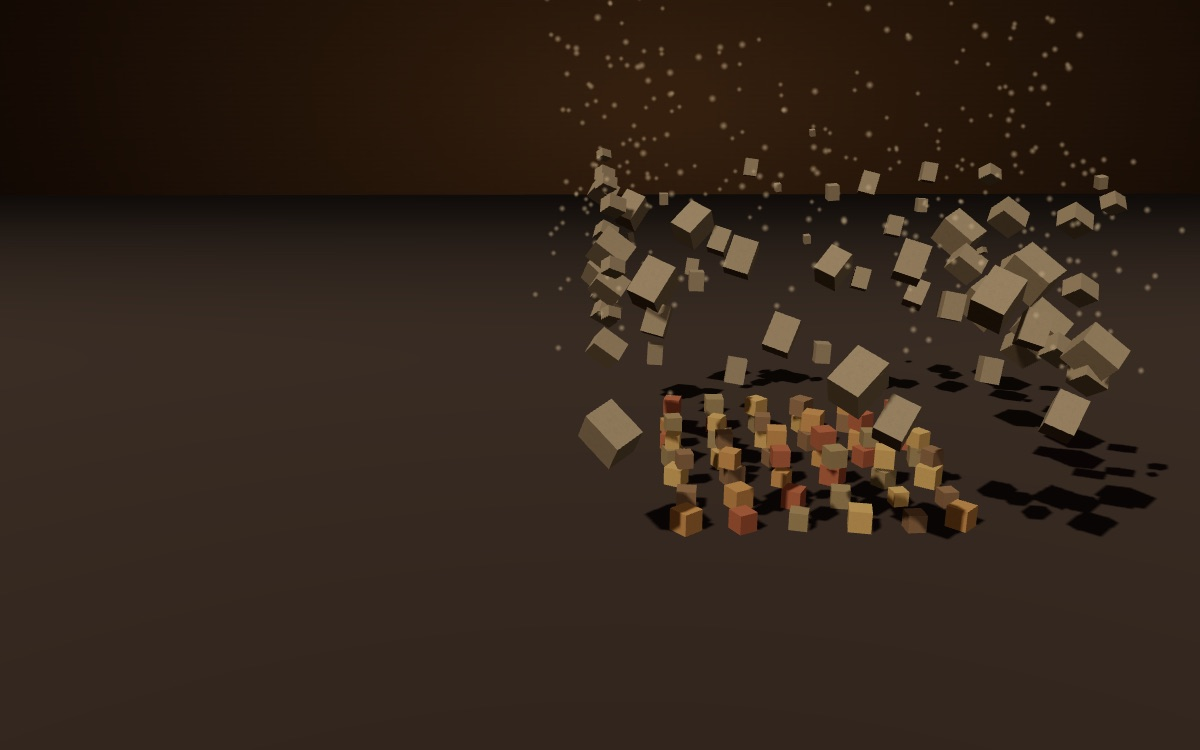
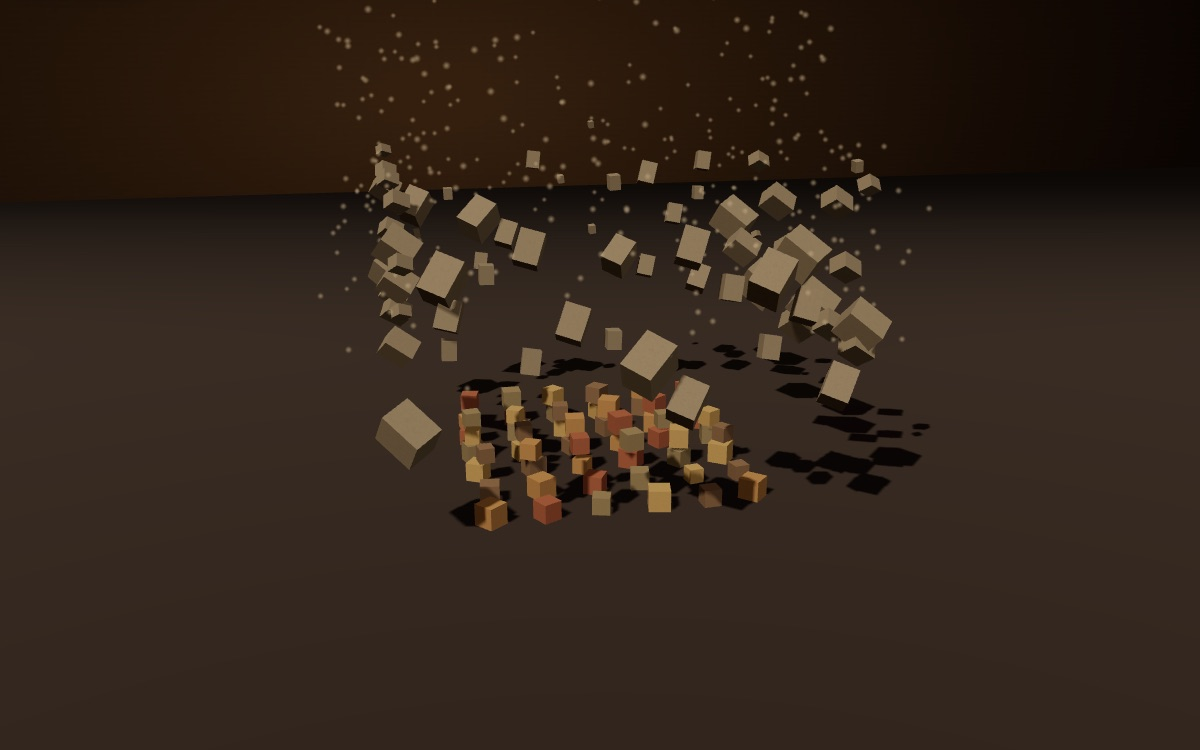
Glossaire : bourgeoisie réécrite selon la charte, direction artistique « la ville éventrée »

diff --git a/glossaire/mondes/bourgeoisie/essai.html b/glossaire/mondes/bourgeoisie/essai.html
@@ -1,51 +1,76 @@
-<!-- L'ESSAI — le corps de /glossaire/bourgeoisie. data-s="1" partout : le
-     Manifeste tient en une seule page Wikisource. Toutes les citations sont
-     relevées dans le texte de Laura Lafargue que la liseuse sert ; aucune ne
-     reprend une phrase déjà citée par /glossaire/lutte-des-classes. La note
-     d'Engels de 1888 n'est pas servie : paraphrasée et située. -->
+<!-- L'ESSAI : le corps de /glossaire/bourgeoisie. Réécrit en octobre 2026
+     selon glossaire/mondes/CHARTE.md (sur le modèle de la page pilote du
+     fétichisme). data-s="1" partout : le Manifeste tient en une seule page
+     Wikisource. Toutes les citations sont relevées dans le texte de Laura
+     Lafargue que la liseuse sert (node tools/verif-citations.mjs
+     BOURGEOISIE) ; aucune ne reprend une phrase déjà citée par
+     /glossaire/lutte-des-classes. La note d'Engels de 1888 n'est pas
+     servie : paraphrasée et située. Les data-etape et les id des sections
+     ne changent pas : la scène lit les premiers, les liens les seconds. -->
 
 <section class="nt-sec" data-etape="eloge" id="difficulte">
-<h2>Un éloge écrit par l'adversaire</h2>
-<p>La difficulté de la notion ne tient pas à sa définition, qui est simple, mais au ton sur lequel le <i>Manifeste</i> la présente, et il faut partir de cette étrangeté pour comprendre ce que le texte veut établir. Un programme communiste, rédigé pour une ligue d'ouvriers, consacre la plus grande partie de sa première section à célébrer la classe qu'il combat&nbsp;; et il ne la célèbre pas à contrecœur. Elle a, lit-on, <q data-s="1" data-q="créé bien d’autres merveilles que les pyramides d’Égypte, les aqueducs romains, les cathédrales gothiques">créé bien d'autres merveilles que les pyramides d'Égypte, les aqueducs romains, les cathédrales gothiques</q>, et elle a été la première à prouver <q data-s="1" data-q="ce que peut accomplir l’activité humaine">ce que peut accomplir l'activité humaine</q>.</p>
-<p>L'éloge, pourtant, porte en lui son revers, et c'est dans la même phrase que le texte les donne. Ce que la bourgeoisie a détruit, ce sont les liens <q data-s="1" data-q="féodales, patriarcales et idylliques">féodales, patriarcales et idylliques</q>, et ce qu'elle a mis à leur place n'est pas une liberté mais une nudité&nbsp;:</p>
+<h2>Pourquoi le <i>Manifeste</i> fait-il l'éloge de la classe qu'il combat&nbsp;?</h2>
+<p class="nt-lead">Parce que l'éloge et l'accusation sont un seul jugement. La bourgeoisie a libéré une puissance de production sans précédent, et c'est la même puissance qui défait tous les liens anciens pour ne laisser que le rapport d'argent.</p>
+<p>La définition de la bourgeoisie est simple&nbsp;; c'est le ton sur lequel le <i>Manifeste</i> la présente qui surprend. Un programme communiste, rédigé en 1848 pour une ligue d'ouvriers, consacre la plus grande partie de sa première section à célébrer la classe qu'il combat. Il ne le fait pas à contrecœur. Elle a, lit-on, <q data-s="1" data-q="créé bien d’autres merveilles que les pyramides d’Égypte, les aqueducs romains, les cathédrales gothiques">créé bien d’autres merveilles que les pyramides d’Égypte, les aqueducs romains, les cathédrales gothiques</q>, et elle a été la première à prouver <q data-s="1" data-q="ce que peut accomplir l’activité humaine">ce que peut accomplir l’activité humaine</q>.</p>
+<p>L'éloge porte pourtant son revers, et le texte les donne ensemble. La bourgeoisie a détruit les relations <q data-s="1" data-q="féodales, patriarcales et idylliques">féodales, patriarcales et idylliques</q>. Ce qu'elle a mis à leur place est une nudité&nbsp;:</p>
 <blockquote data-s="1" data-q="Elle a noyé l’extase religieuse, l’enthousiasme chevaleresque, la sentimentalité du petit bourgeois, dans les eaux glacées du calcul égoïste"><p>Elle a noyé l’extase religieuse, l’enthousiasme chevaleresque, la sentimentalité du petit bourgeois, dans les eaux glacées du calcul égoïste. Elle a fait de la dignité personnelle une simple valeur d’échange […]</p></blockquote>
-<p>Il n'y a là ni ironie ni contradiction. Le texte ne regrette pas le monde féodal, dont il dit qu'il voilait l'exploitation par des illusions religieuses et politiques&nbsp;; il constate que la bourgeoisie a remplacé cette exploitation voilée par <q data-s="1" data-q="une exploitation ouverte, directe, brutale et éhontée">une exploitation ouverte, directe, brutale et éhontée</q>. C'est un progrès en cela même qu'il rend visible ce qui était caché. L'éloge et l'accusation sont un seul jugement, et c'est pourquoi nous les tiendrons ensemble&nbsp;: la bourgeoisie est révolutionnaire parce qu'elle réduit tout rapport à un rapport d'argent.</p>
+<p>Le texte ne regrette pas pour autant le monde féodal. Il dit que ce monde voilait l'exploitation sous des illusions religieuses et politiques, et que la bourgeoisie lui a substitué <q data-s="1" data-q="une exploitation ouverte, directe, brutale et éhontée">une exploitation ouverte, directe, brutale et éhontée</q>. Le progrès tient à ceci que ce qui était caché devient visible. On tiendra donc ensemble les deux faces du jugement&nbsp;: la bourgeoisie est révolutionnaire parce qu'elle réduit tout rapport à un rapport d'argent, et cette réduction est aussi ce qu'on lui reproche.</p>
 </section>
 
 <section class="nt-sec" data-etape="genese" id="ou">
-<h2>Où le texte la pose&nbsp;: une classe qui a une histoire</h2>
-<p>Le <i>Manifeste</i> ne définit pas la bourgeoisie, il la raconte, et le choix d'exposition est déjà un argument. La définition qu'on cite d'ordinaire n'est pas dans le texte de 1848&nbsp;: elle vient d'une note d'Engels à l'édition anglaise de 1888, où il précise qu'il faut entendre par bourgeoisie la classe des capitalistes modernes, propriétaires des moyens de production sociale et employeurs de travail salarié. En 1848, le texte procède autrement&nbsp;: il montre d'où la classe vient avant de dire ce qu'elle est.</p>
-<p>Elle ne tombe pas du ciel, et elle ne s'oppose pas d'emblée à l'ordre féodal. <q data-s="1" data-q="Des serfs du moyen âge naquirent les éléments des premières communes">Des serfs du moyen âge naquirent les éléments des premières communes</q>, et de cette population des villes sortirent les éléments de la bourgeoisie&nbsp;; puis la découverte de l'Amérique, le commerce colonial, la manufacture, la vapeur et la grande industrie firent le reste. La conclusion est posée en une ligne&nbsp;: <q data-s="1" data-q="La Bourgeoisie, nous le voyons, est elle-même le produit d’un long développement, d’une série de révolutions dans les modes de production et de communication">la Bourgeoisie, nous le voyons, est elle-même le produit d'un long développement, d'une série de révolutions dans les modes de production et de communication</q>.</p>
-<p>Le mot garde la trace de cette histoire, et il faut la rappeler pour éviter une confusion. Le bourgeois du moyen âge est l'habitant du bourg, le marchand ou le maître de métier des villes franches&nbsp;; la bourgeoisie du <i>Manifeste</i> est la classe qui en est sortie, mais qui n'est plus définie par la ville ni par le statut&nbsp;: elle l'est par la propriété des moyens de production modernes. Le mot est resté, la chose a changé, et le texte joue sur cette continuité pour faire voir que ce qui a une origine peut avoir une fin.</p>
+<h2>D'où vient la bourgeoisie&nbsp;?</h2>
+<p class="nt-lead">De la société féodale elle-même. Le <i>Manifeste</i> ne la définit pas, il raconte sa formation, sur plusieurs siècles, à travers une série de révolutions dans la production et les échanges.</p>
+<p>La définition qu'on cite d'ordinaire n'est pas dans le texte de 1848. Elle vient d'une note qu'Engels ajoute à l'édition anglaise de 1888&nbsp;: il faut entendre par bourgeoisie la classe des capitalistes modernes, propriétaires des moyens de production sociale, c'est-à-dire des ateliers, des machines et des matières qui servent à produire, et employeurs de travail salarié. En 1848, le texte procède autrement. Il montre d'où la classe vient avant de dire ce qu'elle est, et ce choix d'exposition est déjà un argument&nbsp;: ce qui a une origine peut avoir une fin.</p>
+<p>La bourgeoisie ne surgit pas du dehors, et elle ne s'oppose pas d'emblée à l'ordre féodal. <q data-s="1" data-q="Des serfs du moyen âge naquirent les éléments des premières communes">Des serfs du moyen âge naquirent les éléments des premières communes</q>, et de cette population des villes sortit la bourgeoisie. La découverte de l'Amérique, le commerce colonial, la manufacture, puis la vapeur et la grande industrie firent le reste. Le texte conclut en une ligne que <q data-s="1" data-q="La Bourgeoisie, nous le voyons, est elle-même le produit d’un long développement, d’une série de révolutions dans les modes de production et de communication">la Bourgeoisie, nous le voyons, est elle-même le produit d’un long développement, d’une série de révolutions dans les modes de production et de communication</q>.</p>
+<p>Le mot garde la trace de cette histoire. Le bourgeois du Moyen Âge est l'habitant du bourg, le marchand ou le maître de métier des villes franches. La bourgeoisie du <i>Manifeste</i> est la classe qui en est sortie, et ce qui la définit désormais est la propriété des moyens de production modernes, où qu'elle habite et quel que soit son titre. Le mot est resté, la chose a changé.</p>
 </section>
 
 <section class="nt-sec" data-etape="revolutionner" id="distinction">
-<h2>La distinction&nbsp;: conserver ou bouleverser</h2>
-<p>Ce qui fait de la bourgeoisie une classe à part n'est pas qu'elle domine&nbsp;: toutes les classes dominantes l'ont fait. C'est la condition à laquelle elle domine, et le texte l'énonce avec une netteté que le reste de l'œuvre de Marx ne fera que développer&nbsp;:</p>
+<h2>Qu'est-ce qui distingue la bourgeoisie des classes dominantes d'avant&nbsp;?</h2>
+<p class="nt-lead">Toutes ont dominé en conservant le mode de production. La bourgeoisie, elle, ne peut exister qu'à la condition de le transformer sans arrêt.</p>
+<p>Dominer n'a rien de neuf&nbsp;: le seigneur et le maître de jurande dominaient aussi. Ce qui est neuf, c'est la condition à laquelle la bourgeoisie domine, et le texte l'énonce avec une netteté que le reste de l'œuvre de Marx développera&nbsp;:</p>
 <blockquote data-s="1" data-q="La Bourgeoisie n’existe qu’à la condition de révolutionner sans cesse les instruments de travail, ce qui veut dire le mode de production, ce qui veut dire tous les rapports sociaux"><p>La Bourgeoisie n’existe qu’à la condition de révolutionner sans cesse les instruments de travail, ce qui veut dire le mode de production, ce qui veut dire tous les rapports sociaux. La conservation de l’ancien mode de production était, au contraire, la première condition d’existence de toutes les classes industrielles antérieures.</p></blockquote>
-<p>La distinction est décisive. Un seigneur ou un maître de jurande tenait sa position de ce qui ne changeait pas&nbsp;; un capitaliste tient la sienne de ce qu'il transforme, et il la perd s'il cesse de transformer, parce que la concurrence le déclasse. De là cette instabilité que le texte donne comme la marque de l'époque&nbsp;: <q data-s="1" data-q="cette agitation et cette insécurité perpétuelles, distinguent l’époque bourgeoise de toutes les précédentes">cette agitation et cette insécurité perpétuelles, distinguent l'époque bourgeoise de toutes les précédentes</q>. Les idées ne résistent pas mieux que les techniques&nbsp;: celles qui remplacent les anciennes <q data-s="1" data-q="deviennent surannées avant de se cristalliser">deviennent surannées avant de se cristalliser</q>.</p>
-<p>La phrase qui suit est l'une des plus célèbres du texte, et la traduction de Laura Lafargue en donne une version plus sobre que celle qu'on cite souvent. L'allemand dit que tout ce qui relève des ordres et de ce qui demeure s'évapore&nbsp;; d'autres traductions ont rendu l'image par une fumée. Lafargue écrit&nbsp;: <q data-s="1" data-q="Tout ce qui était solide et stable est ébranlé, tout ce qui était sacré est profané">tout ce qui était solide et stable est ébranlé, tout ce qui était sacré est profané</q>, et elle conserve la conséquence, qui importe plus que l'image&nbsp;: les hommes sont forcés <q data-s="1" data-q="d’envisager leurs conditions d’existence et leurs relations réciproques avec des yeux dégrisés">d'envisager leurs conditions d'existence et leurs relations réciproques avec des yeux dégrisés</q>. Le bouleversement est aussi un désenchantement, et c'est lui qui rend la critique possible.</p>
+<p>Un seigneur tenait sa position de ce qui ne changeait pas. Un capitaliste tient la sienne de ce qu'il transforme, et il la perd s'il cesse de transformer, parce que ses concurrents le déclassent. De là l'instabilité que le texte donne comme la marque de l'époque&nbsp;: <q data-s="1" data-q="cette agitation et cette insécurité perpétuelles, distinguent l’époque bourgeoise de toutes les précédentes">cette agitation et cette insécurité perpétuelles, distinguent l’époque bourgeoise de toutes les précédentes</q>. Les idées ne résistent pas mieux que les techniques&nbsp;: celles qui remplacent les anciennes <q data-s="1" data-q="deviennent surannées avant de se cristalliser">deviennent surannées avant de se cristalliser</q>.</p>
+<div class="nt-ex">
+<p class="nt-ex-t">Un exemple</p>
+<p>Deux filateurs vendent leur fil au même prix. L'un installe une machine qui file deux fois plus vite avec le même nombre d'ouvriers. Il peut baisser son prix et prendre les clients de l'autre. Le second n'a pas le choix&nbsp;: il achète la machine, ou il ferme. Quand tous l'ont achetée, l'avantage du premier a disparu, et il doit en chercher un autre.</p>
+<p>Personne ici n'agit par goût du changement. C'est la concurrence qui oblige chacun à transformer sa production, et c'est en ce sens que la classe entière <q data-s="1" data-q="n’existe qu’à la condition de révolutionner sans cesse">n’existe qu’à la condition de révolutionner sans cesse</q>. Les chiffres sont arbitraires&nbsp;; le mécanisme est celui du texte.</p>
+</div>
+<p>La phrase suivante est l'une des plus citées du <i>Manifeste</i>, et la traduction de Laura Lafargue en donne une version plus sobre que celle qu'on lit souvent. L'allemand dit que tout ce qui relève des ordres et de ce qui demeure s'évapore&nbsp;; d'autres traductions ont rendu l'image par une fumée. Lafargue écrit&nbsp;: <q data-s="1" data-q="Tout ce qui était solide et stable est ébranlé, tout ce qui était sacré est profané">tout ce qui était solide et stable est ébranlé, tout ce qui était sacré est profané</q>. Elle conserve surtout la conséquence&nbsp;: les hommes sont forcés <q data-s="1" data-q="d’envisager leurs conditions d’existence et leurs relations réciproques avec des yeux dégrisés">d’envisager leurs conditions d’existence et leurs relations réciproques avec des yeux dégrisés</q>. Le bouleversement est aussi un désenchantement, et c'est lui qui rend la critique possible.</p>
 </section>
 
 <section class="nt-sec" data-etape="marche" id="mecanisme">
-<h2>Le mécanisme&nbsp;: le marché mondial</h2>
-<p>Une classe qui doit sans cesse produire davantage ne peut pas s'en tenir à un territoire, et c'est la conséquence que le texte tire aussitôt. <q data-s="1" data-q="Poussée par le besoin de débouchés toujours nouveaux, la bourgeoisie envahit le globe entier">Poussée par le besoin de débouchés toujours nouveaux, la bourgeoisie envahit le globe entier</q>&nbsp;; <q data-s="1" data-q="Il lui faut pénétrer partout, s’établir partout, créer partout des moyens de communication">il lui faut pénétrer partout, s'établir partout, créer partout des moyens de communication</q>. Le marché mondial n'est pas un débouché qu'elle aurait trouvé tout fait&nbsp;: c'est la forme que prend nécessairement une production qui ne peut pas s'arrêter.</p>
-<p>Les effets en sont décrits avec précision, et ils ont gardé une actualité qui explique une bonne part de la fortune du texte. Les industries nationales sont détruites ou supplantées par des industries dont les matières premières viennent des régions les plus éloignées et dont les produits se consomment dans tous les coins du globe&nbsp;; la production reçoit <q data-s="1" data-q="un caractère cosmopolite">un caractère cosmopolite</q>, et ce qui vaut pour la production matérielle vaut pour la production intellectuelle. L'arme de cette expansion n'est pas d'abord militaire&nbsp;:</p>
+<h2>Pourquoi la bourgeoisie a-t-elle besoin du monde entier&nbsp;?</h2>
+<p class="nt-lead">Parce qu'une production qui ne peut pas s'arrêter doit trouver sans cesse de nouveaux acheteurs. Le marché mondial est la forme que prend nécessairement cette production.</p>
+<p>Le texte tire la conséquence aussitôt. <q data-s="1" data-q="Poussée par le besoin de débouchés toujours nouveaux, la bourgeoisie envahit le globe entier">Poussée par le besoin de débouchés toujours nouveaux, la bourgeoisie envahit le globe entier</q>&nbsp;; <q data-s="1" data-q="Il lui faut pénétrer partout, s’établir partout, créer partout des moyens de communication">il lui faut pénétrer partout, s’établir partout, créer partout des moyens de communication</q>. La bourgeoisie n'a pas trouvé ce marché tout fait. Elle l'a construit, avec ses navires, ses chemins de fer et ses comptoirs, parce que sa propre production l'y poussait.</p>
+<p>Les effets sont décrits avec précision. Les industries nationales sont détruites ou supplantées par des industries dont les matières premières viennent des régions les plus éloignées et dont les produits se consomment dans tous les coins du globe. La production reçoit <q data-s="1" data-q="un caractère cosmopolite">un caractère cosmopolite</q>, et la production intellectuelle suit la production matérielle. L'arme de cette expansion est le prix&nbsp;:</p>
 <blockquote data-s="1" data-q="Le bon marché de ses produits est la grosse artillerie qui bat en brèche toutes les murailles de Chine"><p>Le bon marché de ses produits est la grosse artillerie qui bat en brèche toutes les murailles de Chine et fait capituler les barbares les plus opiniâtrement hostiles aux étrangers. Sous peine de mort elle force toutes les nations à adopter le mode de production bourgeois.</p></blockquote>
-<p>Tout se résume en une formule&nbsp;: <q data-s="1" data-q="En un mot, elle modèle le monde à son image">en un mot, elle modèle le monde à son image</q>. Et l'on comprend pourquoi l'éloge était sincère&nbsp;: les forces productives que cette classe a mises en mouvement dépassent tout ce que les générations passées avaient produit, au point que le texte se demande <q data-s="1" data-q="quel siècle antérieur a soupçonné que de pareilles forces productives dormaient dans le travail social">quel siècle antérieur a soupçonné que de pareilles forces productives dormaient dans le travail social</q>. On retrouvera cette puissance, analysée pour elle-même, à la page de la <a href="/glossaire/force-productive">force productive</a>.</p>
+<div data-planche="canton"></div>
+<p>Marx et Engels résument&nbsp;: <q data-s="1" data-q="En un mot, elle modèle le monde à son image">en un mot, elle modèle le monde à son image</q>. On comprend alors pourquoi l'éloge du début était sincère. Les forces productives que cette classe a mises en mouvement dépassent tout ce que les générations passées avaient produit, au point que le texte demande <q data-s="1" data-q="quel siècle antérieur a soupçonné que de pareilles forces productives dormaient dans le travail social">quel siècle antérieur a soupçonné que de pareilles forces productives dormaient dans le travail social</q>. Cette puissance est étudiée pour elle-même à la page de la <a href="/glossaire/force-productive">force productive</a>.</p>
 </section>
 
 <section class="nt-sec" data-etape="magicien" id="ouvre">
-<h2>Ce que le concept ouvre&nbsp;: le magicien</h2>
-<p>La puissance qui faisait l'éloge fait aussi le procès, et le texte passe de l'un à l'autre par une comparaison qui résume tout le mouvement de la première partie. La société bourgeoise, qui a mis en mouvement de si puissants moyens de production et d'échange, <q data-s="1" data-q="ressemble au magicien qui ne sait plus dominer les puissances infernales qu’il a évoquées">ressemble au magicien qui ne sait plus dominer les puissances infernales qu'il a évoquées</q>. Le symptôme en est la crise, dont le texte souligne ce qu'elle a d'inouï&nbsp;:</p>
-<blockquote data-s="1" data-q="Une épidémie, qui, à toute autre époque, eût semblé un paradoxe, s’abat sur la société, — l’épidémie de la surproduction"><p>Une épidémie, qui, à toute autre époque, eût semblé un paradoxe, s’abat sur la société, — l’épidémie de la surproduction.</p></blockquote>
-<p>Le paradoxe est exact. Les sociétés anciennes connaissaient la disette&nbsp;; la société bourgeoise connaît la ruine par l'abondance, parce qu'elle a <q data-s="1" data-q="trop de civilisation, trop de moyens de subsistance, trop d’industrie, trop de commerce">trop de civilisation, trop de moyens de subsistance, trop d'industrie, trop de commerce</q>. Chaque crise détruit non seulement une masse de produits, mais une partie des forces productives elles-mêmes&nbsp;; et la bourgeoisie ne la surmonte qu'en préparant une crise plus générale. La raison est formulée en termes qui annoncent la suite de l'œuvre&nbsp;: <q data-s="1" data-q="Le système bourgeois est devenu trop étroit pour contenir les richesses créées dans son sein">le système bourgeois est devenu trop étroit pour contenir les richesses créées dans son sein</q>.</p>
-<p>La conséquence politique suit dans le même mouvement. <q data-s="1" data-q="Les armes dont la Bourgeoisie s’est servie pour abattre la féodalité se retournent aujourd’hui contre la bourgeoisie elle-même">Les armes dont la Bourgeoisie s'est servie pour abattre la féodalité se retournent aujourd'hui contre la bourgeoisie elle-même</q>, et elle a produit, avec ces armes, les hommes qui les manieront&nbsp;: c'est la page du <a href="/glossaire/proletariat">prolétariat</a>. Encore faut-il noter le mot par lequel le texte qualifie son rôle dans cette histoire&nbsp;: la bourgeoisie est <q data-s="1" data-q="l’agent passif et inconscient">l'agent passif et inconscient</q> du progrès de l'industrie. Le magicien ne sait pas ce qu'il fait, et c'est ce qui le perd.</p>
+<h2>Pourquoi la puissance de la bourgeoisie se retourne-t-elle contre elle&nbsp;?</h2>
+<p class="nt-lead">Parce que les forces qu'elle a libérées débordent le cadre de la propriété bourgeoise. La crise de surproduction en est le symptôme, et les ouvriers qu'elle rassemble en sont l'issue.</p>
+<p>La puissance qui faisait l'éloge fait aussi le procès, et le texte passe de l'un à l'autre par une image. La société bourgeoise, qui a mis en mouvement de si puissants moyens de production et d'échange, <q data-s="1" data-q="ressemble au magicien qui ne sait plus dominer les puissances infernales qu’il a évoquées">ressemble au magicien qui ne sait plus dominer les puissances infernales qu’il a évoquées</q>. Le signe en est la crise. Une épidémie <q data-s="1" data-q="qui, à toute autre époque, eût semblé un paradoxe">qui, à toute autre époque, eût semblé un paradoxe</q> s'abat sur la société&nbsp;: <q data-s="1" data-q="l’épidémie de la surproduction">l’épidémie de la surproduction</q>.</p>
+<p>Le paradoxe est exact. Les sociétés anciennes connaissaient la disette&nbsp;; la société bourgeoise connaît la ruine par l'abondance, parce qu'elle a <q data-s="1" data-q="trop de civilisation, trop de moyens de subsistance, trop d’industrie, trop de commerce">trop de civilisation, trop de moyens de subsistance, trop d’industrie, trop de commerce</q>. Le texte décrit ce qui se passe alors&nbsp;: une grande partie des produits, et même des forces productives déjà créées, est livrée à la destruction. La bourgeoisie surmonte la crise en conquérant de nouveaux marchés et en exploitant plus à fond les anciens, donc en préparant une crise plus générale. La raison tient en une phrase qui annonce <i>Le Capital</i>&nbsp;: <q data-s="1" data-q="Le système bourgeois est devenu trop étroit pour contenir les richesses créées dans son sein">le système bourgeois est devenu trop étroit pour contenir les richesses créées dans son sein</q>.</p>
+<p>La conséquence politique suit dans le même mouvement. <q data-s="1" data-q="Les armes dont la Bourgeoisie s’est servie pour abattre la féodalité se retournent aujourd’hui contre la bourgeoisie elle-même">Les armes dont la Bourgeoisie s’est servie pour abattre la féodalité se retournent aujourd’hui contre la bourgeoisie elle-même</q>, et elle a produit, avec ces armes, les hommes qui les manieront&nbsp;: c'est l'objet de la page du <a href="/glossaire/proletariat">prolétariat</a>. Il faut noter le mot par lequel le texte qualifie son rôle dans cette histoire. La bourgeoisie est <q data-s="1" data-q="l’agent passif et inconscient">l’agent passif et inconscient</q> du progrès de l'industrie&nbsp;: le magicien ne sait pas ce qu'il fait, et c'est ce qui le perd.</p>
 </section>
 
 <section class="nt-sec" data-etape="lectures" id="lectures">
-<h2>Les lectures et les contresens</h2>
-<p>Le premier contresens tient au mot. Dans l'usage courant, un bourgeois est quelqu'un d'aisé, de conformiste, attaché à son confort, et l'on parle volontiers d'un mode de vie ou d'une mentalité bourgeoise. Le <i>Manifeste</i> ne parle de rien de tel. La bourgeoisie y est définie par une place dans la production, et l'on peut être bourgeois sans aucun des traits que l'usage prête au mot, comme on peut les avoir tous sans l'être. Confondre la classe et ses mœurs, c'est retomber dans l'échelle des rangs, que la <a href="/glossaire/lutte-des-classes">lutte des classes</a> distingue précisément de l'antagonisme.</p>
-<p>Le deuxième tient à l'éloge, qu'on a lu tantôt comme une ironie, tantôt comme une concession d'un instant. Nous avons dit pourquoi il nous paraît ni l'un ni l'autre&nbsp;: le texte a besoin que la bourgeoisie soit révolutionnaire pour que sa chute soit nécessaire, puisque ce sont ses propres réalisations qui débordent le cadre qu'elle leur impose. Un auteur qui se contenterait de dénoncer la bourgeoisie ne pourrait pas expliquer pourquoi elle serait dépassée&nbsp;; seul celui qui mesure sa puissance le peut.</p>
-<p>Le troisième porte sur un vocabulaire qui a vieilli, et il faut le reconnaître plutôt que l'excuser. Le texte parle de nations «&nbsp;barbares&nbsp;» entraînées dans la civilisation, de l'Orient subordonné à l'Occident, et il crédite la bourgeoisie d'avoir arraché une partie de la population à <q data-s="1" data-q="l’idiotisme de la vie des champs">l'idiotisme de la vie des champs</q> — où l'on a fait valoir que le mot allemand garde le sens grec du particulier isolé plus que celui de la sottise. Ces pages portent la marque d'une philosophie de l'histoire européenne de 1848, et les lectures qui en ont souligné la violence coloniale ont raison de le faire. Elles ne réfutent pas pour autant le mécanisme décrit&nbsp;: qu'une production qui ne peut s'arrêter doive conquérir des marchés, et qu'elle impose ses formes à ceux qu'elle atteint, le texte le dit sans l'approuver, et <i>Le Capital</i> en fera l'histoire à la page de l'<a href="/glossaire/accumulation-primitive">accumulation primitive</a>.</p>
+<h2>Comment lire ce concept, et quels contresens éviter&nbsp;?</h2>
+<p class="nt-lead">La bourgeoisie du <i>Manifeste</i> est une place dans la production, et son éloge est un argument. Trois lectures courantes s'écartent du texte.</p>
+<p>Le vocabulaire de ces pages a vieilli, et il faut le reconnaître plutôt que l'excuser. Le texte parle de nations «&nbsp;barbares&nbsp;» entraînées dans la civilisation, de l'Orient subordonné à l'Occident, et il crédite la bourgeoisie d'avoir arraché une partie de la population à <q data-s="1" data-q="l’idiotisme de la vie des champs">l’idiotisme de la vie des champs</q>. On a fait valoir que le mot allemand garde ici le sens grec du particulier isolé plus que celui de la sottise. Ces pages portent la marque d'une philosophie de l'histoire européenne de 1848, et les lectures qui en ont souligné la violence coloniale ont raison de le faire. Elles ne réfutent pas pour autant le mécanisme décrit&nbsp;: qu'une production qui ne peut s'arrêter doive conquérir des marchés et imposer ses formes à ceux qu'elle atteint, le texte le dit sans l'approuver. <i>Le Capital</i> en fera l'histoire à la page de l'<a href="/glossaire/accumulation-primitive">accumulation primitive</a>.</p>
+<div class="nt-cs">
+<p><span class="nt-cs-k">On lit souvent</span> Être bourgeois, ce serait être aisé, conformiste, attaché à son confort&nbsp;: une mentalité ou un mode de vie.</p>
+<p><span class="nt-cs-k">Ce que dit le texte</span> Le <i>Manifeste</i> définit la bourgeoisie par une place dans la production&nbsp;: la propriété des moyens de produire et l'emploi de salariés. On peut avoir tous les traits que l'usage prête au mot sans être bourgeois en ce sens, et l'inverse. Confondre la classe et ses mœurs, c'est revenir à l'échelle des rangs que la <a href="/glossaire/lutte-des-classes">lutte des classes</a> distingue de l'antagonisme.</p>
+</div>
+<div class="nt-cs">
+<p><span class="nt-cs-k">On lit souvent</span> L'éloge de la bourgeoisie serait ironique, ou une concession passagère avant la dénonciation.</p>
+<p><span class="nt-cs-k">Ce que dit le texte</span> L'éloge est nécessaire à l'argument. C'est parce que la bourgeoisie a libéré des forces immenses que celles-ci débordent le cadre qu'elle leur impose. Un texte qui se contenterait de la dénoncer ne pourrait pas expliquer pourquoi elle serait dépassée.</p>
+</div>
+<div class="nt-cs">
+<p><span class="nt-cs-k">On lit souvent</span> La bourgeoisie dirigerait le cours des choses selon un plan, en maîtresse consciente de l'économie.</p>
+<p><span class="nt-cs-k">Ce que dit le texte</span> Le <i>Manifeste</i> en fait <q data-s="1" data-q="l’agent passif et inconscient">l’agent passif et inconscient</q> du progrès de l'industrie. Elle est contrainte de révolutionner par la concurrence, et la crise montre qu'elle ne domine pas ce qu'elle a mis en mouvement.</p>
+</div>
 </section>

diff --git a/glossaire/mondes/bourgeoisie/monde.js b/glossaire/mondes/bourgeoisie/monde.js
@@ -187,12 +187,10 @@ window.LM_MONDE = function (canvas) {
     var az = lerp(-0.55, -0.2, ss(0, 3, G)) + 0.25 * st.reprise;
     var cible = new THREE.Vector3(0, cy, 0);
     camera.position.set(Math.sin(az) * dist + 0.03 * Math.sin(TT * 0.23), cy + haut + 0.02 * Math.sin(TT * 0.31), Math.cos(az) * dist);
-    /* au large, la colonne de texte couvre la gauche : on vise à gauche du
-       sujet. Sous 1100 px la scène est une bande au-dessus du texte. */
-    var large = (canvas.clientWidth || 0) >= 1100;
-    var fwd = new THREE.Vector3().subVectors(cible, camera.position).normalize();
-    var right = new THREE.Vector3().crossVectors(fwd, new THREE.Vector3(0, 1, 0)).normalize();
-    aim.copy(cible).addScaledVector(right, large ? -0.2 * camera.position.distanceTo(cible) : 0);
+    /* la scène est une figure posée en bas de page (oct. 2026) : plus de
+       colonne de texte à dégager, on vise le sujet lui-même, à toutes les
+       largeurs (l'image fixe, photographiée à 1200 px, aussi). */
+    aim.copy(cible);
     camera.lookAt(aim);
     render();
   }
